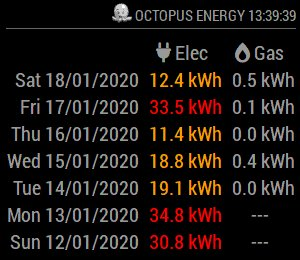
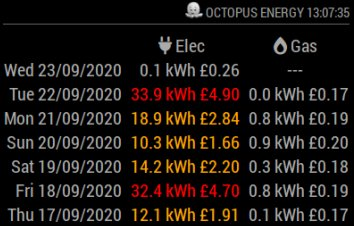
energy cost display (for accounts with fixed pricing, for indication only!)

diff --git a/MMM-OctoMon.js b/MMM-OctoMon.js
@@ -17,8 +17,12 @@ Module.register("MMM-OctoMon",{
 		displayDays: 7,
 		elecMedium: 10,
 		elecHigh: 20,
+		elecCostKWH: 0.1372,
+		elecCostSC: 0.25,
 		gasMedium: 0.5,
 		gasHigh: 1,
+		gasCostKWH: 0.0331,
+		gasCostSC: 0.168,
 		decimalPlaces: 2,
 		showUpdateTime: true,
 		retryDelay: 5000,
@@ -256,7 +260,7 @@ Module.register("MMM-OctoMon",{
 			thisgaslabel.innerHTML = "---";
 			thisgaslabel.className = "small";
 			thisgaslabel.style.textAlign = "center";
-			
+
 			//we're looking for gas and elec results for this day
 			if (this.elecDataRequest) {
 				for(i=0;i<intDays;i++) {
@@ -269,8 +273,15 @@ Module.register("MMM-OctoMon",{
 							if(intVal>=this.config.elecMedium)strCol="color:orange";
 							if(intVal>=this.config.elecHigh)strCol="color:red";
 
-							thiseleclabel.innerHTML = "&nbsp;&nbsp;<span style=\"" + strCol + "\">" + intVal + " kWh</span>";
+							strUse = intVal + " kWh";
+							strCost="";
+							if(this.config.elecCostKWH>0)
+								strCost = "£" + (Math.round(((intVal * this.config.elecCostKWH)+this.config.elecCostSC) * 100)/100).toFixed(2);
+
+							//display electricity energy usage and cost here
+							thiseleclabel.innerHTML = "&nbsp;&nbsp;<span style=\"" + strCol + "\">" + strUse + " " + strCost + "</span>";
 							thiseleclabel.style.textAlign = "right";
+
 						}
 					}
 				}
@@ -287,8 +298,15 @@ Module.register("MMM-OctoMon",{
 							if(intVal>=this.config.gasMedium)strCol="color:orange";
 							if(intVal>=this.config.gasHigh)strCol="color:red";
 
-							thisgaslabel.innerHTML = "&nbsp;&nbsp;<span style=\"" + strCol + "\">" + intVal + " kWh</span>";									
+							strUse = intVal + " kWh";
+							strCost = "";
+							if(this.config.gasCostKWH>0)
+								strCost = "£" + (Math.round(((intVal * this.config.gasCostKWH)+this.config.gasCostSC) * 100)/100).toFixed(2);
+
+							//display gas energy usage and cost here
+							thisgaslabel.innerHTML = "&nbsp;&nbsp;<span style=\"" + strCol + "\">" + strUse + " " + strCost + "</span>";
 							thisgaslabel.style.textAlign = "right";
+
 						}
 					}
 				}

diff --git a/README.md b/README.md
@@ -34,8 +34,12 @@
 				displayDays: 7,
 				elecMedium: 10,
 				elecHigh: 20,
+				elecCostKWH: 0.1372,
+				elecCostSC: 0.25,
 				gasMedium: 5,
 				gasHigh: 6,
+				gasCostKWH: 0.0331,
+				gasCostSC: 0.168,				
 				decimalPlaces: 1,
 				showUpdateTime: true,
 				updateInterval: 60000*60,
@@ -57,8 +61,12 @@ The following config.js properties can be configured.
 | 'displayDays' | '7' | The number of days of historical energy usage to display |
 | 'elecMedium' | '10' | kWh values over this amount will be displayed in Orange |
 | 'elecHigh' | '20' | kWh values over this amount will be displayed in Red |
+| 'elecCostKWH' | '0.1372' | cost per kWh in pounds, or zero to hide display |
+| 'elecCostSC' | '0.25' | daily standing charge in pounds |
 | 'gasMedium' | '5' | kWh values over this amount will be displayed in Orange |
 | 'gasHigh' | '6' | kWh values over this amount will be displayed in Red |
+| 'gasCostKWH' | '0.0331' | cost per kWh in pounds, or zero to hide display |
+| 'gasCostSC' | '0.168' | daily standing charge in pounds |
 | 'decimalPlaces' | '1' | round all kWh values to this number of decimal places |
 | 'showUpdateTime' | 'true' | true or false, to display the time the energy usage figures were last updated |
 | 'updateInterval' | '60000\*60' | delay between refresing energy usage via the API, in milliseconds (1 hour, or 60 * 60 seconds) |
@@ -68,6 +76,10 @@ The following config.js properties can be configured.
 ## Additional customisation
 
 See comments in the main source code for a couple of other things that could be changed.
+
+## Note
+
+Cost calcuations are based on fixed daily rates. Octopus have tiered and variable pricing models (Octopus Go and Octopus Agile) which are not currently implemented. Turn the cost display off by setting the elecCostKWH or gasCostKWH to zero.
 
 ## Disclaimer
 
